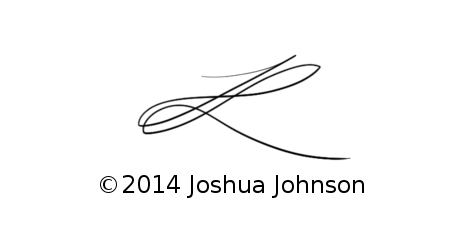
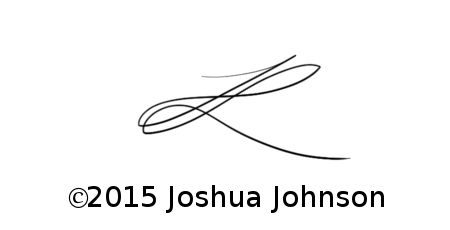
Updated watermark and template text for 2015 (Poor design choice ... will refactor)

Changed region(s): [[0.1556, 0.7609, 0.8711, 0.9435]]

diff --git a/static/index.html b/static/index.html
@@ -84,7 +84,7 @@
 		</div>		
 
 		<div id = "copyright">
-			&copy; Joshua Johnson 2014
+			&copy; Joshua Johnson 2015
 		</div>
 
 		
